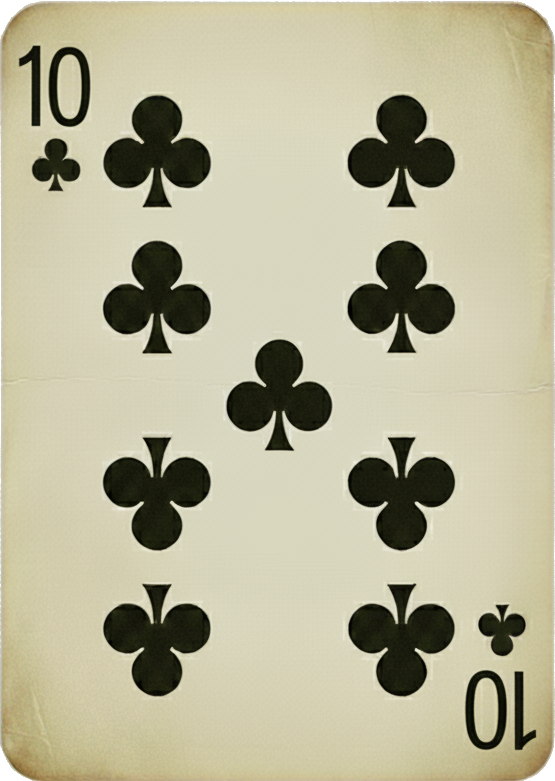
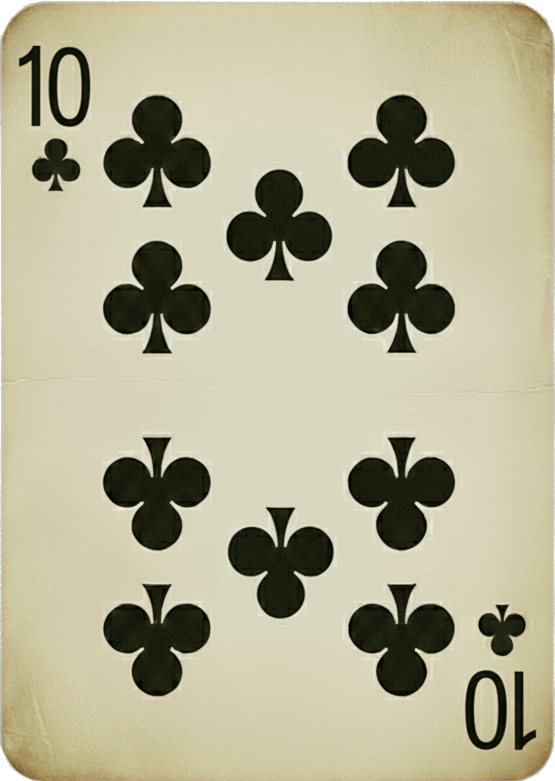
Refresh card art and polish game UIs

Changed region(s): [[0.3982, 0.4302, 0.6126, 0.5839], [0.3982, 0.2151, 0.6126, 0.3688], [0.3982, 0.6453, 0.6126, 0.799]]

diff --git a/games/hazard/index.html b/games/hazard/index.html
@@ -29,13 +29,13 @@
     .top-banner .banner-left { gap: 12px; }
     .game-header { width:95%; max-width:1280px; margin:0 auto 8px; display:flex; align-items:center; justify-content:space-between; gap:12px; }
     .game-logo { display:block; width:auto; height:auto; max-width: clamp(180px, 26vw, 320px); margin:16px 0 6px 12px; filter: drop-shadow(0 0 18px rgba(255,244,233,0.45)) drop-shadow(0 4px 12px rgba(0,0,0,0.25)); pointer-events:none; user-select:none; }
-    .game-header .rules-btn { background: url('../../assets/images/nav-gem.png') no-repeat center / 100% 100%; border:none; color:#fff; font-weight:700; font-family:'Morris','Morris Alt',serif; text-shadow:0 1px 2px rgba(0,0,0,0.45); height:2.4em; padding:0 18px; cursor:pointer; box-shadow:0 0 18px rgba(146,0,250,0.35); transition: transform .12s ease, box-shadow .12s ease; }
-    .game-header .rules-btn:hover { transform: translateY(-1px); box-shadow:0 0 22px rgba(146,0,250,0.45); }
+    .game-header .rules-btn { background: url('../../assets/images/nav-gem.png') no-repeat center / 100% 100%; border:none; color:#fff; font-weight:700; font-family:'Morris','Morris Alt',serif; text-shadow:0 1px 2px rgba(0,0,0,0.45); height:2.4em; padding:0 18px; cursor:pointer;  transition: transform .12s ease, box-shadow .12s ease; }
+    .game-header .rules-btn:hover { transform: translateY(-1px);  }
     .tavern { padding: 24px; background: none !important; border: none !important; box-shadow: none !important; }
 
     .hazard-layout { display:flex; flex-direction:column; gap:16px; align-items:center; justify-content:center; }
     .hazard-left { display:none; }
-    .hazard-right { width:100%; max-width:820px; margin:0 auto; background: transparent; border:1px solid rgba(255,255,255,0.16); border-radius:18px; padding:20px 24px; color:#f4e6d3; }
+    .hazard-right { width:100%; max-width:820px; margin:0 auto; background: transparent; border-radius:18px; padding:20px 24px; color:#f4e6d3; }
     @media (max-width: 900px) {
       .hazard-layout { flex-direction:column; }
     }
@@ -46,20 +46,43 @@
 
     .rules { font-size:10.4px; color:#f4e6d3; text-align:left; background: rgba(26,14,8,0.72); padding:12px; border-radius:12px; margin:12px auto; width:90%; max-width:720px; border:1px solid rgba(255,255,255,0.12); box-shadow:0 0 26px rgba(255,180,60,0.22); }
 
-    .main-select button { margin-right:6px; cursor:pointer; transition: transform .12s ease, box-shadow .12s ease, filter .12s ease; background: url('../../assets/images/nav-gem.png') no-repeat center / 100% 100%; border: none; color: #fff; font-weight: 700; font-family: 'Morris', 'Morris Alt', serif; text-shadow: 0 1px 2px rgba(0,0,0,0.45); height: 2.6em; padding: 0 16px; border-radius: 10px; box-shadow:0 0 18px rgba(146,0,250,0.35); }
-    .main-select button:hover { transform: translateY(-1px); filter: drop-shadow(0 4px 12px rgba(0,0,0,0.4)); }
+    .main-select button {
+      margin-right:6px;
+      cursor:pointer;
+      transition: transform .12s ease, box-shadow .12s ease, filter .12s ease;
+      background: url('../../assets/images/nav-gem.png') no-repeat center / 100% 100%;
+      border: none;
+      color: #fff;
+      font-weight: 700;
+      font-family: 'Morris', 'Morris Alt', serif;
+      text-shadow: 0 1px 2px rgba(0,0,0,0.45);
+      height: 2.6em;
+      padding: 0 16px;
+      border-radius: 10px;
+      box-shadow:0 0 20px rgba(255,244,233,0.28);
+    }
+    .main-select button:hover { transform: translateY(-1px); box-shadow:0 0 26px rgba(255,244,233,0.32); }
     .main-select button.active { color:white; box-shadow:0 0 0 2px rgba(255,255,255,0.4), 0 0 26px rgba(120,0,205,0.45); transform: translateY(-1px) scale(1.05); }
 
-    #roll-dice { background:#9200fa; color:#fff; border:none; border-radius:10px; box-shadow:0 0 24px rgba(146,0,250,0.4); transition: transform .12s ease, box-shadow .12s ease, background .12s ease; padding:10px 18px; font-size:16px; }
-    #roll-dice:hover { background:#7800cd; box-shadow:0 0 28px rgba(120,0,205,0.5); transform: translateY(-1px); }
+    #roll-dice {
+      background:#9200fa;
+      color:#fff;
+      border:none;
+      border-radius:10px;
+      box-shadow:0 0 24px rgba(255,244,233,0.28);
+      transition: transform .12s ease, box-shadow .12s ease, background .12s ease;
+      padding:10px 18px;
+      font-size:16px;
+    }
+    #roll-dice:hover { background:#7800cd; box-shadow:0 0 30px rgba(255,244,233,0.32); transform: translateY(-1px); }
     #roll-dice:disabled { opacity:.65; cursor:not-allowed; transform:none; box-shadow:none; }
 
-    .dice-row { display:flex; justify-content:center; gap:16px; margin:18px 0; padding:12px; background: transparent; border-radius:14px; border:1px solid rgba(255,255,255,0.14); }
+    .dice-row { display:flex; justify-content:center; gap:16px; margin:18px 0; padding:12px; background: transparent; border-radius:14px; }
     .dice { width:clamp(84px, 12vw, 140px); height:clamp(84px, 12vw, 140px); display:flex; align-items:center; justify-content:center; font-size:clamp(36px, 6vw, 56px); border-radius:16px; background: rgba(26,14,8,0.8); border:1px solid rgba(255,255,255,0.18); box-shadow: 0 0 22px rgba(255,180,60,0.28); color:#f4e6d3; }
     .dice.shake { animation: shake 0.6s ease; }
     @keyframes shake { 0% { transform: rotate(0deg); } 25% { transform: rotate(-18deg); } 50% { transform: rotate(18deg); } 75% { transform: rotate(-8deg); } 100% { transform: rotate(0deg); } }
 
-    .scoreboard { margin-top:18px; background: transparent; border:1px solid rgba(255,255,255,0.14); border-radius:12px; padding:12px; color:#f4e6d3; }
+    .scoreboard { margin-top:18px; background: transparent; border-radius:12px; padding:12px; color:#f4e6d3; }
     .scoreboard h3 { margin-top:0; }
     .scoreboard ul { list-style:none; padding-left:0; margin:0; }
   </style>
@@ -179,6 +202,9 @@
   </script>
 </body>
 </html>
+
+
+
 
 
 

diff --git a/games/faro/index.html b/games/faro/index.html
@@ -25,30 +25,84 @@
     .top-banner .banner-left { gap: 12px; }
     .game-header { width:95%; max-width:1280px; margin:0 auto 8px; display:flex; align-items:center; justify-content:space-between; gap:12px; }
     .game-logo { display:block; width:auto; height:auto; max-width: clamp(180px, 26vw, 320px); margin:16px 0 6px 12px; filter: drop-shadow(0 0 18px rgba(255,244,233,0.45)) drop-shadow(0 4px 12px rgba(0,0,0,0.25)); pointer-events:none; user-select:none; }
-    .game-header .rules-btn { background: url('../../assets/images/nav-gem.png') no-repeat center / 100% 100%; border:none; color:#fff; font-weight:700; font-family:'Morris','Morris Alt',serif; text-shadow:0 1px 2px rgba(0,0,0,0.45); height:2.4em; padding:0 18px; cursor:pointer; box-shadow:0 0 18px rgba(146,0,250,0.35); transition: transform .12s ease, box-shadow .12s ease; }
-    .game-header .rules-btn:hover { transform: translateY(-1px); box-shadow:0 0 22px rgba(146,0,250,0.45); }
+    .game-header .rules-btn { background: url('../../assets/images/nav-gem.png') no-repeat center / 100% 100%; border:none; color:#fff; font-weight:700; font-family:'Morris','Morris Alt',serif; text-shadow:0 1px 2px rgba(0,0,0,0.45); height:2.4em; padding:0 18px; cursor:pointer; box-shadow:0 0 24px rgba(255,244,233,0.3); transition: transform .12s ease, box-shadow .12s ease; }
+    .game-header .rules-btn:hover { transform: translateY(-1px); box-shadow:0 0 30px rgba(255,244,233,0.34); }
     .tavern { padding: 24px; background: none !important; border: none !important; box-shadow: none !important; }
     .table-wrap { display:flex; flex-direction:column; align-items:center; gap:16px; margin: 40px auto; }
     .table-canvas { position:relative; width:min(92vw, 900px); height:min(92vw, 600px); margin: 0 auto; }
     .table-surface { position:absolute; inset:0; border-radius:24px; background: url('../../assets/images/table.png') no-repeat center / contain, rgba(30,15,6,0.72); box-shadow: 0 0 42px rgba(255,180,60,0.28); }
-    .seat { position:absolute; width:120px; height:120px; border-radius:16px; background: rgba(18,10,5,0.82); border: 1px solid rgba(255,255,255,0.18); box-shadow: 0 0 22px rgba(210,190,140,0.25); display:flex; flex-direction:column; align-items:center; justify-content:center; gap:6px; padding:8px; }
+    .seat {
+      position:absolute;
+      width:120px;
+      height:120px;
+      border-radius:16px;
+      background: rgba(18,10,5,0.82);
+      border:none;
+      box-shadow:0 0 28px rgba(255,244,233,0.2);
+      display:flex;
+      flex-direction:column;
+      align-items:center;
+      justify-content:center;
+      gap:6px;
+      padding:8px;
+    }
     .seat .addr, .seat .bal { font-size:12px; color:#f4e6d3; text-shadow:0 1px 2px rgba(0,0,0,0.45); }
     .seat .avatar { width:46px; height:46px; border-radius:999px; object-fit:cover; border:1px solid rgba(255,255,255,0.35); box-shadow:0 4px 12px rgba(0,0,0,0.35); }
     .seat .btns button { padding:4px 8px; font-size:12px; border-radius:6px; }
     .owner-badge { position:absolute; top:-10px; right:-10px; background:rgba(146,0,250,0.9); color:#fff; font-size:11px; padding:2px 6px; border-radius:999px; box-shadow:0 0 12px rgba(146,0,250,0.35); }
     .ready { background: rgba(38,120,72,0.65); box-shadow:0 0 24px rgba(60,200,120,0.28); }
     .controls-inline { display:flex; align-items:center; gap:8px; }
-    .log { width:min(92vw, 720px); margin: 0 auto; background: transparent; border:1px solid rgba(255,255,255,0.14); border-radius:12px; padding:10px 12px; font-size:13px; color:#f4e6d3; text-align:left; }
+    .log {
+      width:min(92vw, 720px);
+      margin: 0 auto;
+      background: transparent;
+      border:none;
+      border-radius:12px;
+      padding:10px 12px;
+      font-size:13px;
+      color:#f4e6d3;
+      text-align:left;
+    }
     .faro-panel { display:flex; flex-direction:column; gap:10px; align-items:center; }
     .faro-controls { display:flex; align-items:center; gap:8px; flex-wrap:wrap; }
-    .faro-board { display:grid; grid-template-columns: repeat(13, minmax(36px, 1fr)); gap:8px; width:min(92vw, 720px); background: transparent; padding:12px; border-radius:16px; border:1px solid rgba(255,255,255,0.16); }
-    .rank-btn { background:#9200fa; color:#fff; border:none; border-radius:10px; padding:8px 0; font-size:14px; cursor:pointer; position:relative; box-shadow:0 0 18px rgba(146,0,250,0.35); }
+    .faro-board {
+      display:grid;
+      grid-template-columns: repeat(13, minmax(36px, 1fr));
+      gap:8px;
+      width:min(92vw, 720px);
+      background: transparent;
+      padding:12px;
+      border-radius:16px;
+    }
+    .rank-btn {
+      background:#9200fa;
+      color:#fff;
+      border:none;
+      border-radius:10px;
+      padding:8px 0;
+      font-size:14px;
+      cursor:pointer;
+      position:relative;
+      box-shadow:0 0 20px rgba(255,244,233,0.28);
+    }
     .rank-btn:hover { background:#7800cd; }
     .rank-btn:disabled { opacity: .6; cursor: not-allowed; box-shadow:none; }
     .rank-btn .chip { position:absolute; right:6px; bottom:4px; background:rgba(255,244,233,0.9); color:#2b1e12; border:1px solid rgba(255,255,255,0.3); border-radius:999px; padding:1px 6px; font-size:12px; line-height:1.2; box-shadow:0 2px 10px rgba(0,0,0,0.35); }
     @media (max-width: 720px) {
       .game-logo { margin:24px 0 12px 8px; max-width:220px; }
       .rank-btn { font-size:13px; padding:6px 0; }
+    }
+      .rank-btn {
+      background:#9200fa;
+      color:#fff;
+      border:none;
+      border-radius:10px;
+      padding:8px 0;
+      font-size:14px;
+      cursor:pointer;
+      position:relative;
+      box-shadow:0 0 20px rgba(255,244,233,0.28);
+    }
     }
   </style>
 </head>
@@ -185,6 +239,12 @@
   </script>
 </body>
 </html>
+
+
+
+
+
+
 
 
 

diff --git a/games/dakchog/index.html b/games/dakchog/index.html
@@ -24,24 +24,57 @@
     .top-banner .banner-left { gap: 12px; }
     .game-header { width:95%; max-width:1280px; margin:0 auto 8px; display:flex; align-items:center; justify-content:space-between; gap:12px; }
     .game-logo { display:block; width:auto; height:auto; max-width: clamp(180px, 26vw, 320px); margin:16px 0 6px 12px; filter: drop-shadow(0 0 18px rgba(255,244,233,0.45)) drop-shadow(0 4px 12px rgba(0,0,0,0.25)); pointer-events:none; user-select:none; }
-    .game-header .rules-btn { background: url('../../assets/images/nav-gem.png') no-repeat center / 100% 100%; border:none; color:#fff; font-weight:700; font-family:'Morris','Morris Alt',serif; text-shadow:0 1px 2px rgba(0,0,0,0.45); height:2.4em; padding:0 18px; cursor:pointer; box-shadow:0 0 18px rgba(146,0,250,0.35); transition: transform .12s ease, box-shadow .12s ease; }
-    .game-header .rules-btn:hover { transform: translateY(-1px); box-shadow:0 0 22px rgba(146,0,250,0.45); }
+    .game-header .rules-btn { background: url('../../assets/images/nav-gem.png') no-repeat center / 100% 100%; border:none; color:#fff; font-weight:700; font-family:'Morris','Morris Alt',serif; text-shadow:0 1px 2px rgba(0,0,0,0.45); height:2.4em; padding:0 18px; cursor:pointer;  transition: transform .12s ease, box-shadow .12s ease; }
+    .game-header .rules-btn:hover { transform: translateY(-1px);  }
     .tavern { padding: 24px; background: none !important; border: none !important; box-shadow: none !important; }
 
-    .coin-wrap { display:flex; flex-direction:column; align-items:center; gap:12px; background: transparent; border:1px solid rgba(255,255,255,0.14); border-radius:18px; padding:18px 24px; color:#f4e6d3; }
-    .coin { width: clamp(160px, 28vw, 280px); height: clamp(160px, 28vw, 280px); background-image:url('../../assets/images/coin-dak.png'); background-position:center; background-repeat:no-repeat; background-size: contain; filter: drop-shadow(0 10px 24px rgba(0,0,0,0.35)); }
+    .coin-wrap {
+      display:flex;
+      flex-direction:column;
+      align-items:center;
+      gap:12px;
+      background: transparent;
+      border:none;
+      border-radius:18px;
+      padding:18px 24px;
+      color:#f4e6d3;
+    }
+    .coin {
+      width: clamp(160px, 28vw, 280px);
+      height: clamp(160px, 28vw, 280px);
+      background-image:url('../../assets/images/coin-dak.png');
+      background-position:center;
+      background-repeat:no-repeat;
+      background-size: contain;
+      box-shadow:0 0 34px rgba(255,244,233,0.28);
+    }
     .coin.flip { animation: flip 0.8s ease; }
     @keyframes flip { 0% { transform: rotateY(0deg); } 50% { transform: rotateY(180deg); } 100% { transform: rotateY(360deg); } }
 
     .choice { display:flex; align-items:center; justify-content:center; gap:8px; }
-    .choice button { background: url('../../assets/images/nav-gem.png') no-repeat center / 100% 100%; border:none; color:#fff; font-weight:700; font-family:'Morris','Morris Alt',serif; text-shadow:0 1px 2px rgba(0,0,0,0.45); height:2.6em; padding:0 16px; cursor:pointer; box-shadow:0 0 18px rgba(146,0,250,0.35); transition: transform .12s ease, box-shadow .12s ease; }
-    .choice button:hover { transform: translateY(-1px); box-shadow:0 0 22px rgba(146,0,250,0.45); }
-    .choice button.active { box-shadow:0 0 0 2px rgba(255,255,255,0.4), 0 0 26px rgba(120,0,205,0.45); transform: translateY(-1px) scale(1.03); }
+    .choice button {
+      background: url('../../assets/images/nav-gem.png') no-repeat center / 100% 100%;
+      border:none;
+      color:#fff;
+      font-weight:700;
+      font-family:'Morris','Morris Alt',serif;
+      text-shadow:0 1px 2px rgba(0,0,0,0.45);
+      height:2.6em;
+      padding:0 16px;
+      cursor:pointer;
+      box-shadow:0 0 20px rgba(255,244,233,0.28);
+      transition: transform .12s ease, box-shadow .12s ease;
+    }
+    .choice button:hover { transform: translateY(-1px); box-shadow:0 0 26px rgba(255,244,233,0.32); }
+    .choice button.active {
+      box-shadow:0 0 0 2px rgba(255,255,255,0.4), 0 0 28px rgba(255,244,233,0.35);
+      transform: translateY(-1px) scale(1.03);
+    }
 
     .controls label { color:#f4e6d3; text-shadow:0 1px 2px rgba(0,0,0,0.45); }
     .controls input { border-radius:8px; border:1px solid rgba(255,255,255,0.2); background:rgba(26,14,8,0.7); color:#f4e6d3; box-shadow: inset 0 1px 1px rgba(255,255,255,0.12); }
     .cta { text-align:center; margin-top:8px; }
-    .cta button { box-shadow:0 0 18px rgba(146,0,250,0.35); }
+    .cta button {  }
   </style>
 </head>
 
@@ -128,6 +161,10 @@
   </script>
 </body>
 </html>
+
+
+
+
 
 
 

diff --git a/games/shell/index.html b/games/shell/index.html
@@ -45,8 +45,8 @@
     label { color:#f4e6d3; text-shadow:0 1px 2px rgba(0,0,0,0.45); }
     input#bet { border-radius:8px; border:1px solid rgba(255,255,255,0.2); background:rgba(26,14,8,0.7); color:#f4e6d3; padding:6px 10px; box-shadow: inset 0 1px 1px rgba(255,255,255,0.12); text-align:center; }
 
-    .shells { display:flex; justify-content:center; gap:26px; margin:24px auto; padding:16px; background: transparent; border-radius:18px; border:1px solid rgba(255,255,255,0.14); max-width:720px; }
-    .shell { width: clamp(150px, 28vw, 220px); height: clamp(150px, 28vw, 220px); background: url('../../assets/images/cup.png') no-repeat center center; background-size: contain; filter: drop-shadow(0 6px 16px rgba(0,0,0,0.35)); transition: transform 0.25s ease; }
+    .shells { display:flex; justify-content:center; gap:26px; margin:24px auto; padding:16px; background: transparent; border-radius:18px; max-width:720px; }
+    .shell { width: clamp(170px, 28vw, 240px); height: clamp(170px, 28vw, 240px); box-shadow:0 0 34px rgba(255,244,233,0.3); background: url('../../assets/images/cup.png') no-repeat center center; background-size: contain; filter: drop-shadow(0 6px 16px rgba(0,0,0,0.35)); transition: transform 0.25s ease; }
     .shell:hover { transform: translateY(-8px) scale(1.05); }
     .shell.shaking { animation: shake 0.7s ease; }
 
@@ -59,7 +59,7 @@
       100% { transform: translateX(0); }
     }
 
-    .scoreboard { background: transparent; border:1px solid rgba(255,255,255,0.14); border-radius:12px; padding:12px; color:#f4e6d3; max-width:420px; margin:18px auto 0; text-align:left; }
+    .scoreboard { background: transparent; border-radius:12px; padding:12px; color:#f4e6d3; max-width:420px; margin:18px auto 0; text-align:left; }
     .scoreboard h3 { margin-top:0; }
     .scoreboard ul { list-style:none; padding-left:0; margin:0; }
   </style>
@@ -157,6 +157,8 @@
   </script>
 </body>
 </html>
+
+
 
 
 
